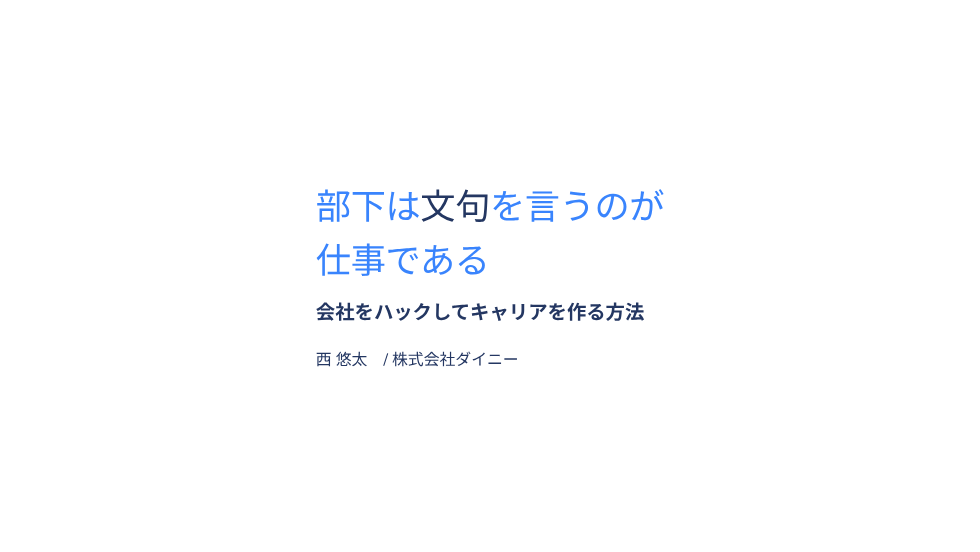
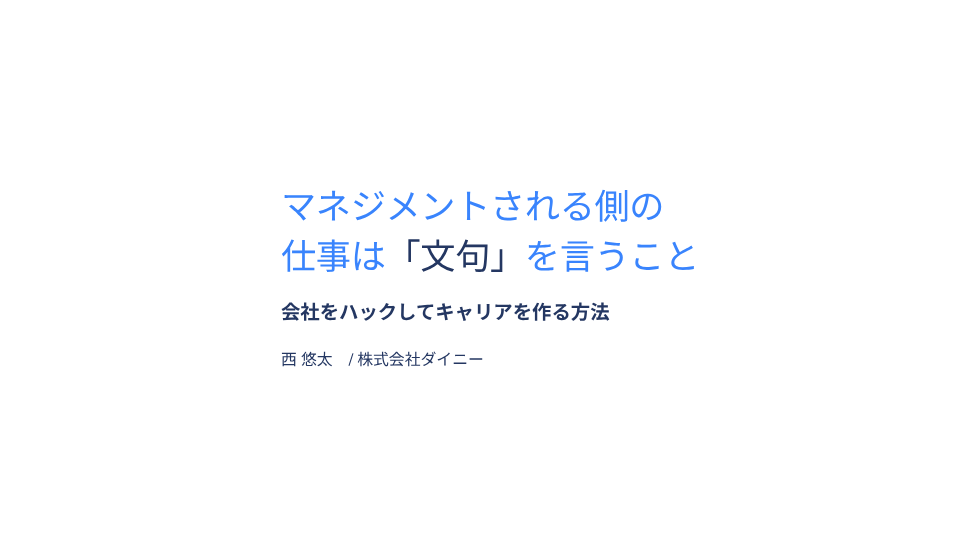
feat: retitle complaining_is_your_job and add more figures (#55)
Rename the deck to "マネジメントされる側の仕事は「文句」を言うこと" on the
cover, the page title, and the README, and regenerate the og image.

Add three figures: staying silent versus speaking up about a concern,
an agenda written by the boss versus one written by the member, and
being managed versus using the boss and the company. The agenda example
topics move from the list into the figure so they are not shown twice.

Claude-Session: https://claude.ai/code/session_01FKWAAGDFKi4U5DngH8cg1n

diff --git a/complaining_is_your_job/style.css b/complaining_is_your_job/style.css
@@ -239,3 +239,33 @@ p, li, span, div {
 .slidev-layout .venn-label.company { left: 24px; }
 .slidev-layout .venn-label.me { left: 280px; }
 .slidev-layout .venn-label.both { left: 162px; color: #3984FD; }
+
+.slidev-layout .flow {
+  display: grid;
+  grid-template-columns: max-content max-content;
+  gap: 14px 20px;
+  align-items: center;
+  margin-top: 24px;
+}
+.slidev-layout .flow-name { color: #3984FD; font-weight: 700; }
+.slidev-layout .flow-steps { display: flex; gap: 10px; align-items: center; }
+.slidev-layout .flow-steps > span { font-size: 0.8em; font-weight: 700; }
+.slidev-layout .flow-step {
+  padding: 6px 14px;
+  border: 2px solid #e6e8ef;
+  border-radius: 10px;
+  font-weight: 700;
+}
+.slidev-layout .flow-step.bad { border-color: #243762; background: #243762; color: #FFFFFF; }
+.slidev-layout .flow-step.good { border-color: #3984FD; background: #f0f7ff; color: #3984FD; }
+
+.slidev-layout .docs { display: flex; gap: 24px; margin-top: 24px; }
+.slidev-layout .doc {
+  width: 300px;
+  padding: 14px 18px;
+  border: 2px solid #e6e8ef;
+  border-radius: 10px;
+}
+.slidev-layout .doc.mine { border-color: #3984FD; background: #f0f7ff; }
+.slidev-layout .doc-title { margin-bottom: 8px; font-size: 0.8em; font-weight: 700; color: #3984FD; }
+.slidev-layout .doc-line { padding: 4px 0; border-bottom: 1px solid #e6e8ef; font-weight: 700; }

diff --git a/complaining_is_your_job/slides.md b/complaining_is_your_job/slides.md
@@ -1,9 +1,9 @@
 ---
 theme: seriph
 background: white
-title: 部下は文句を言うのが仕事である
+title: マネジメントされる側の仕事は「文句」を言うこと
 info: |
-  ## 部下は文句を言うのが仕事である
+  ## マネジメントされる側の仕事は「文句」を言うこと
   会社をハックしてキャリアを作る方法
 layout: center
 defaults:
@@ -24,8 +24,8 @@ highlighter: shiki
 
 <div class="w-full">
   <h1 class="mega">
-    部下は<span class="accent">文句</span>を言うのが<br>
-    仕事である
+    マネジメントされる側の<br>
+    仕事は<span class="accent">「文句」</span>を言うこと
   </h1>
   <p class="subtitle">会社をハックしてキャリアを作る方法</p>
   <div class="byline">西 悠太 <span class="venue">/ 株式会社ダイニー</span></div>
@@ -94,6 +94,13 @@ highlighter: shiki
 - 一番の損失は、黙って我慢した人が突然辞めること
 - 不満をぶつけること自体が貢献になる
 
+<div class="flow">
+  <div class="flow-name">黙る</div>
+  <div class="flow-steps"><div class="flow-step">違和感</div><span>→</span><div class="flow-step">我慢</div><span>→</span><div class="flow-step bad">突然辞める</div></div>
+  <div class="flow-name">言う</div>
+  <div class="flow-steps"><div class="flow-step">違和感</div><span>→</span><div class="flow-step">1on1でぶつける</div><span>→</span><div class="flow-step good">会社への貢献</div></div>
+</div>
+
 ---
 
 <p class="lead-q">
@@ -145,8 +152,18 @@ highlighter: shiki
 
 - 1on1のドキュメントに、話したいことを先に書く
 - 上司に考えさせるテーマを選ぶ
-  - キャリアの方向性について相談
-  - 今のタスクに対する違和感
+
+<div class="docs">
+  <div class="doc">
+    <div class="doc-title">上司が作るアジェンダ</div>
+    <div class="doc-line">進捗確認</div>
+  </div>
+  <div class="doc mine">
+    <div class="doc-title">自分で作るアジェンダ</div>
+    <div class="doc-line">キャリアの方向性について相談</div>
+    <div class="doc-line">今のタスクに対する違和感</div>
+  </div>
+</div>
 
 ---
 
@@ -233,6 +250,13 @@ highlighter: shiki
 
 - 上司も会社の看板も社内のリソースも、自分の市場価値を上げる道具
 - 本音を言い合える関係のほうが、評価も働きやすさも手に入る
+
+<div class="flow">
+  <div class="flow-name">される側</div>
+  <div class="flow-steps"><div class="flow-step">上司</div><span>マネジメントする →</span><div class="flow-step">自分</div></div>
+  <div class="flow-name">利用する側</div>
+  <div class="flow-steps"><div class="flow-step good">自分</div><span>利用する →</span><div class="flow-step">上司</div><div class="flow-step">会社の看板</div><div class="flow-step">社内のリソース</div></div>
+</div>
 
 ---
 

diff --git a/complaining_is_your_job/README.md b/complaining_is_your_job/README.md
@@ -1,4 +1,4 @@
-# 部下は文句を言うのが仕事である
+# マネジメントされる側の仕事は「文句」を言うこと
 
 1on1を進捗報告で終わらせず、文句や違和感、本音を伝えてキャリアを作る方法を紹介する10分セッションのSlidevスライドです。
 
